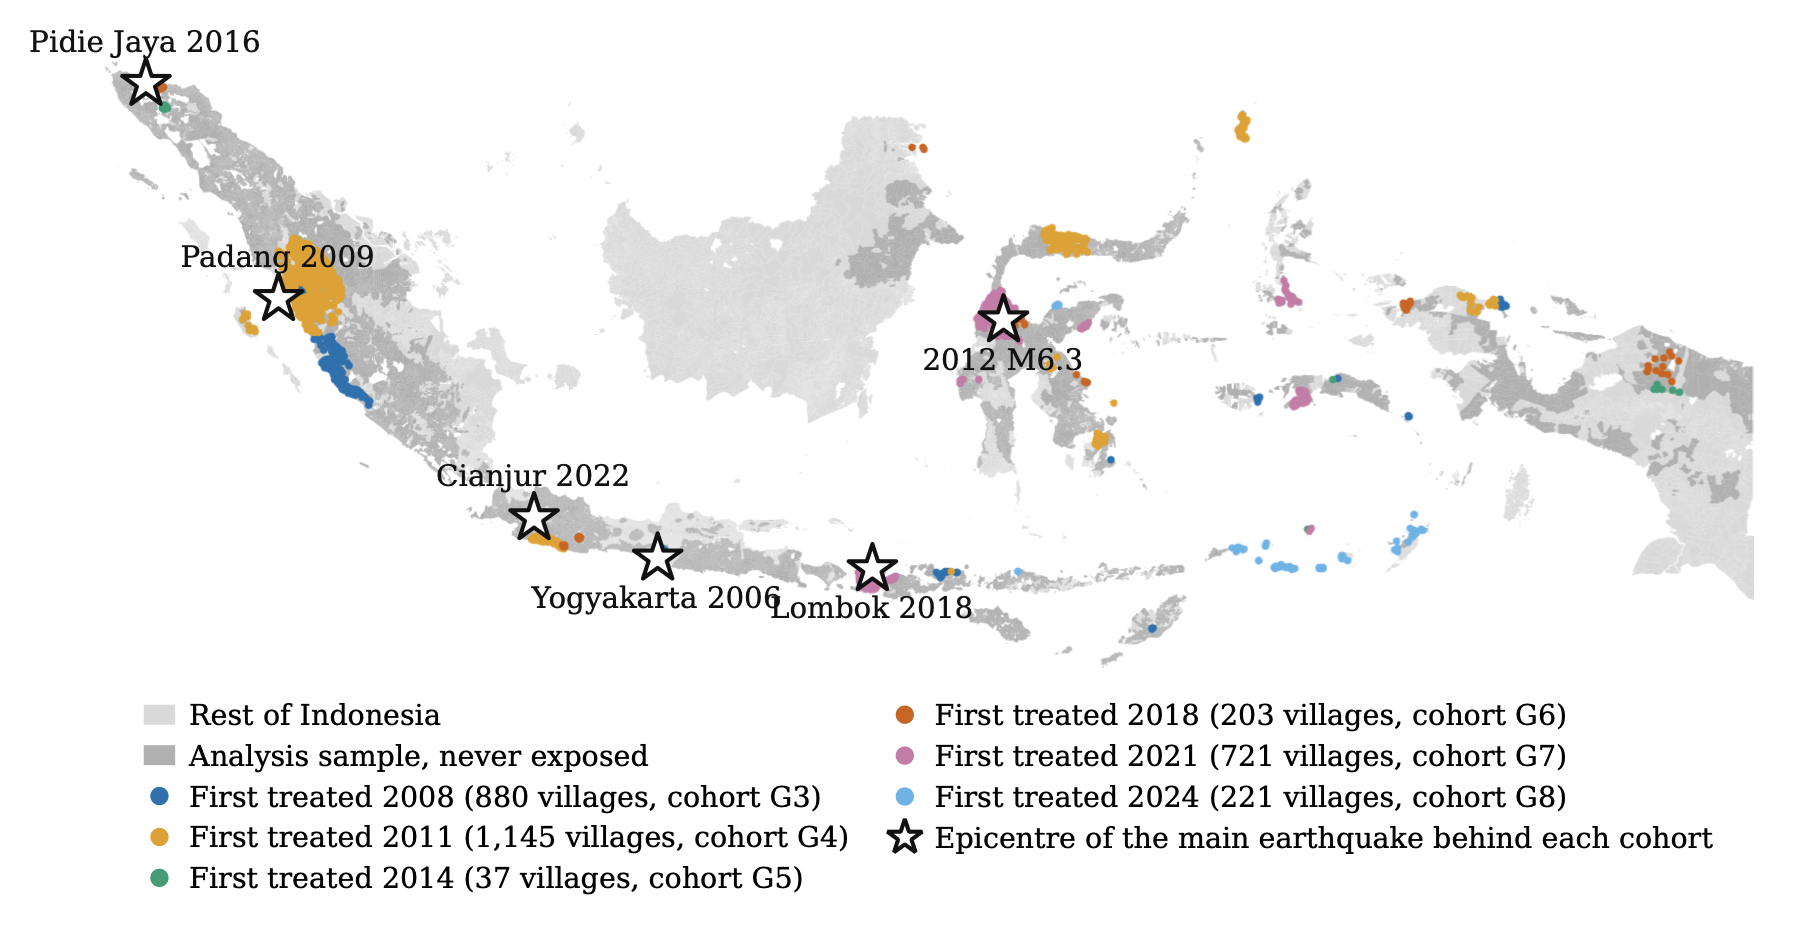
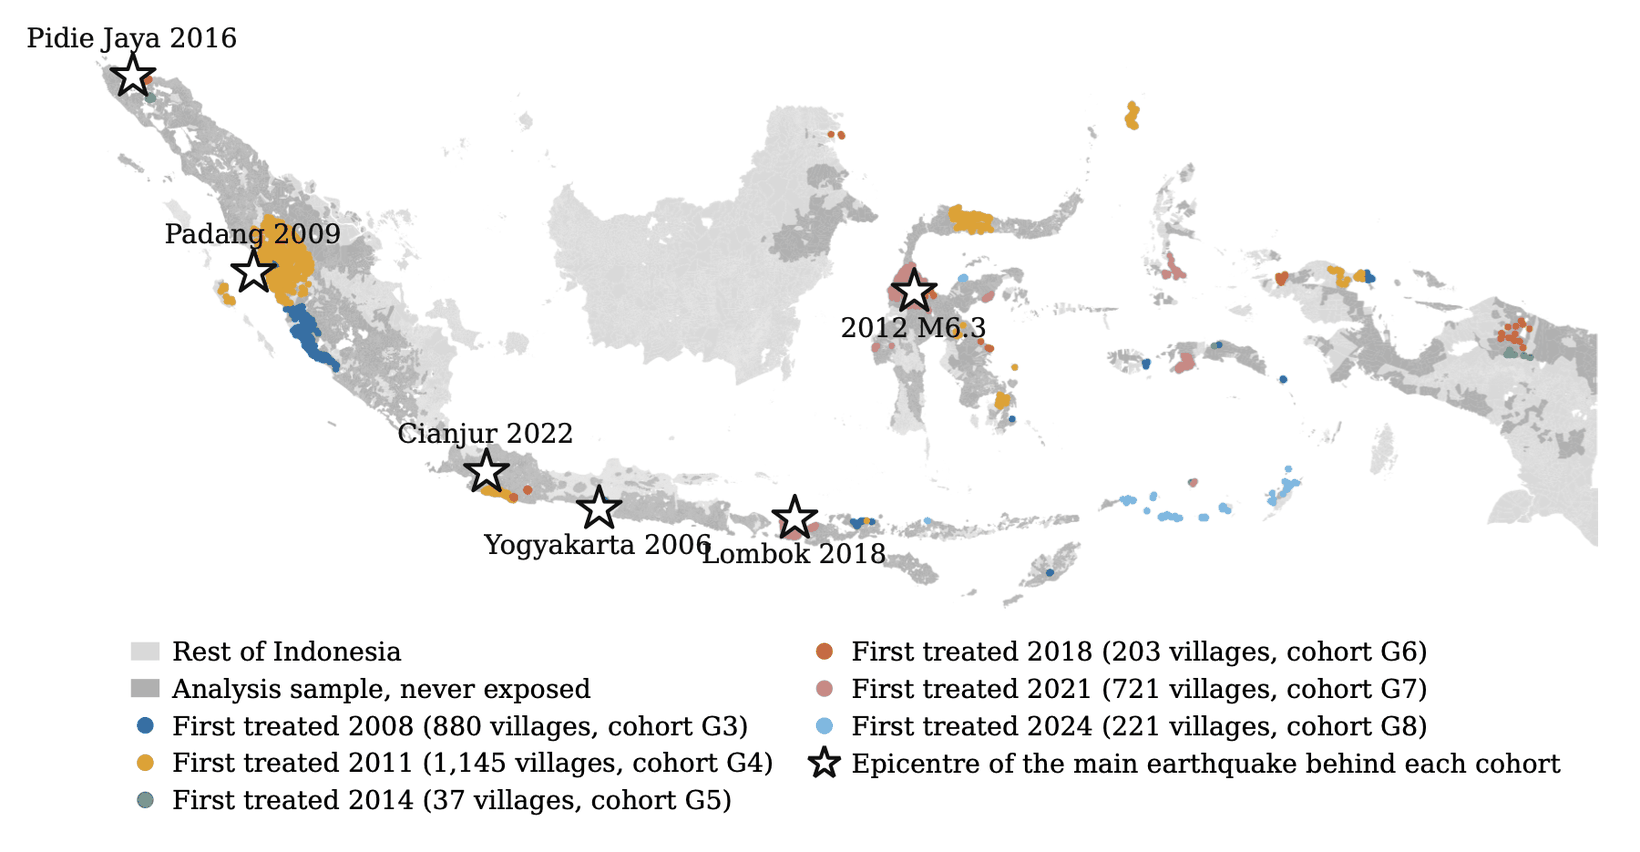
Accessibility and weight: alt text, heading order, 404, image size
The exposure map, the densest thing on the site, had no alt text. It now
describes what the map shows rather than naming the file.

Headings jumped from h2 straight to h4 on three pages, because the field blocks
were set as h4 for their size. The level is now h3 and the stylesheet matches
both, so the outline is intact for screen readers and for anything parsing
structure. Nothing changed visually.

Added a 404 page. Mistyped and stale links previously landed on GitHub's generic
one, which says nothing and offers no way back.

Map 443 KB to 201 KB, share card 282 KB to 86 KB. The map was 1800px wide for a
column that renders it at 820.

diff --git a/styles.scss b/styles.scss
@@ -373,6 +373,7 @@ a {
   .grid-2 { grid-template-columns: 1fr; }
 }
 
+.area h3,
 .area h4 {
   font-family: $font-family-sans-serif;
   font-size: 0.93rem;
